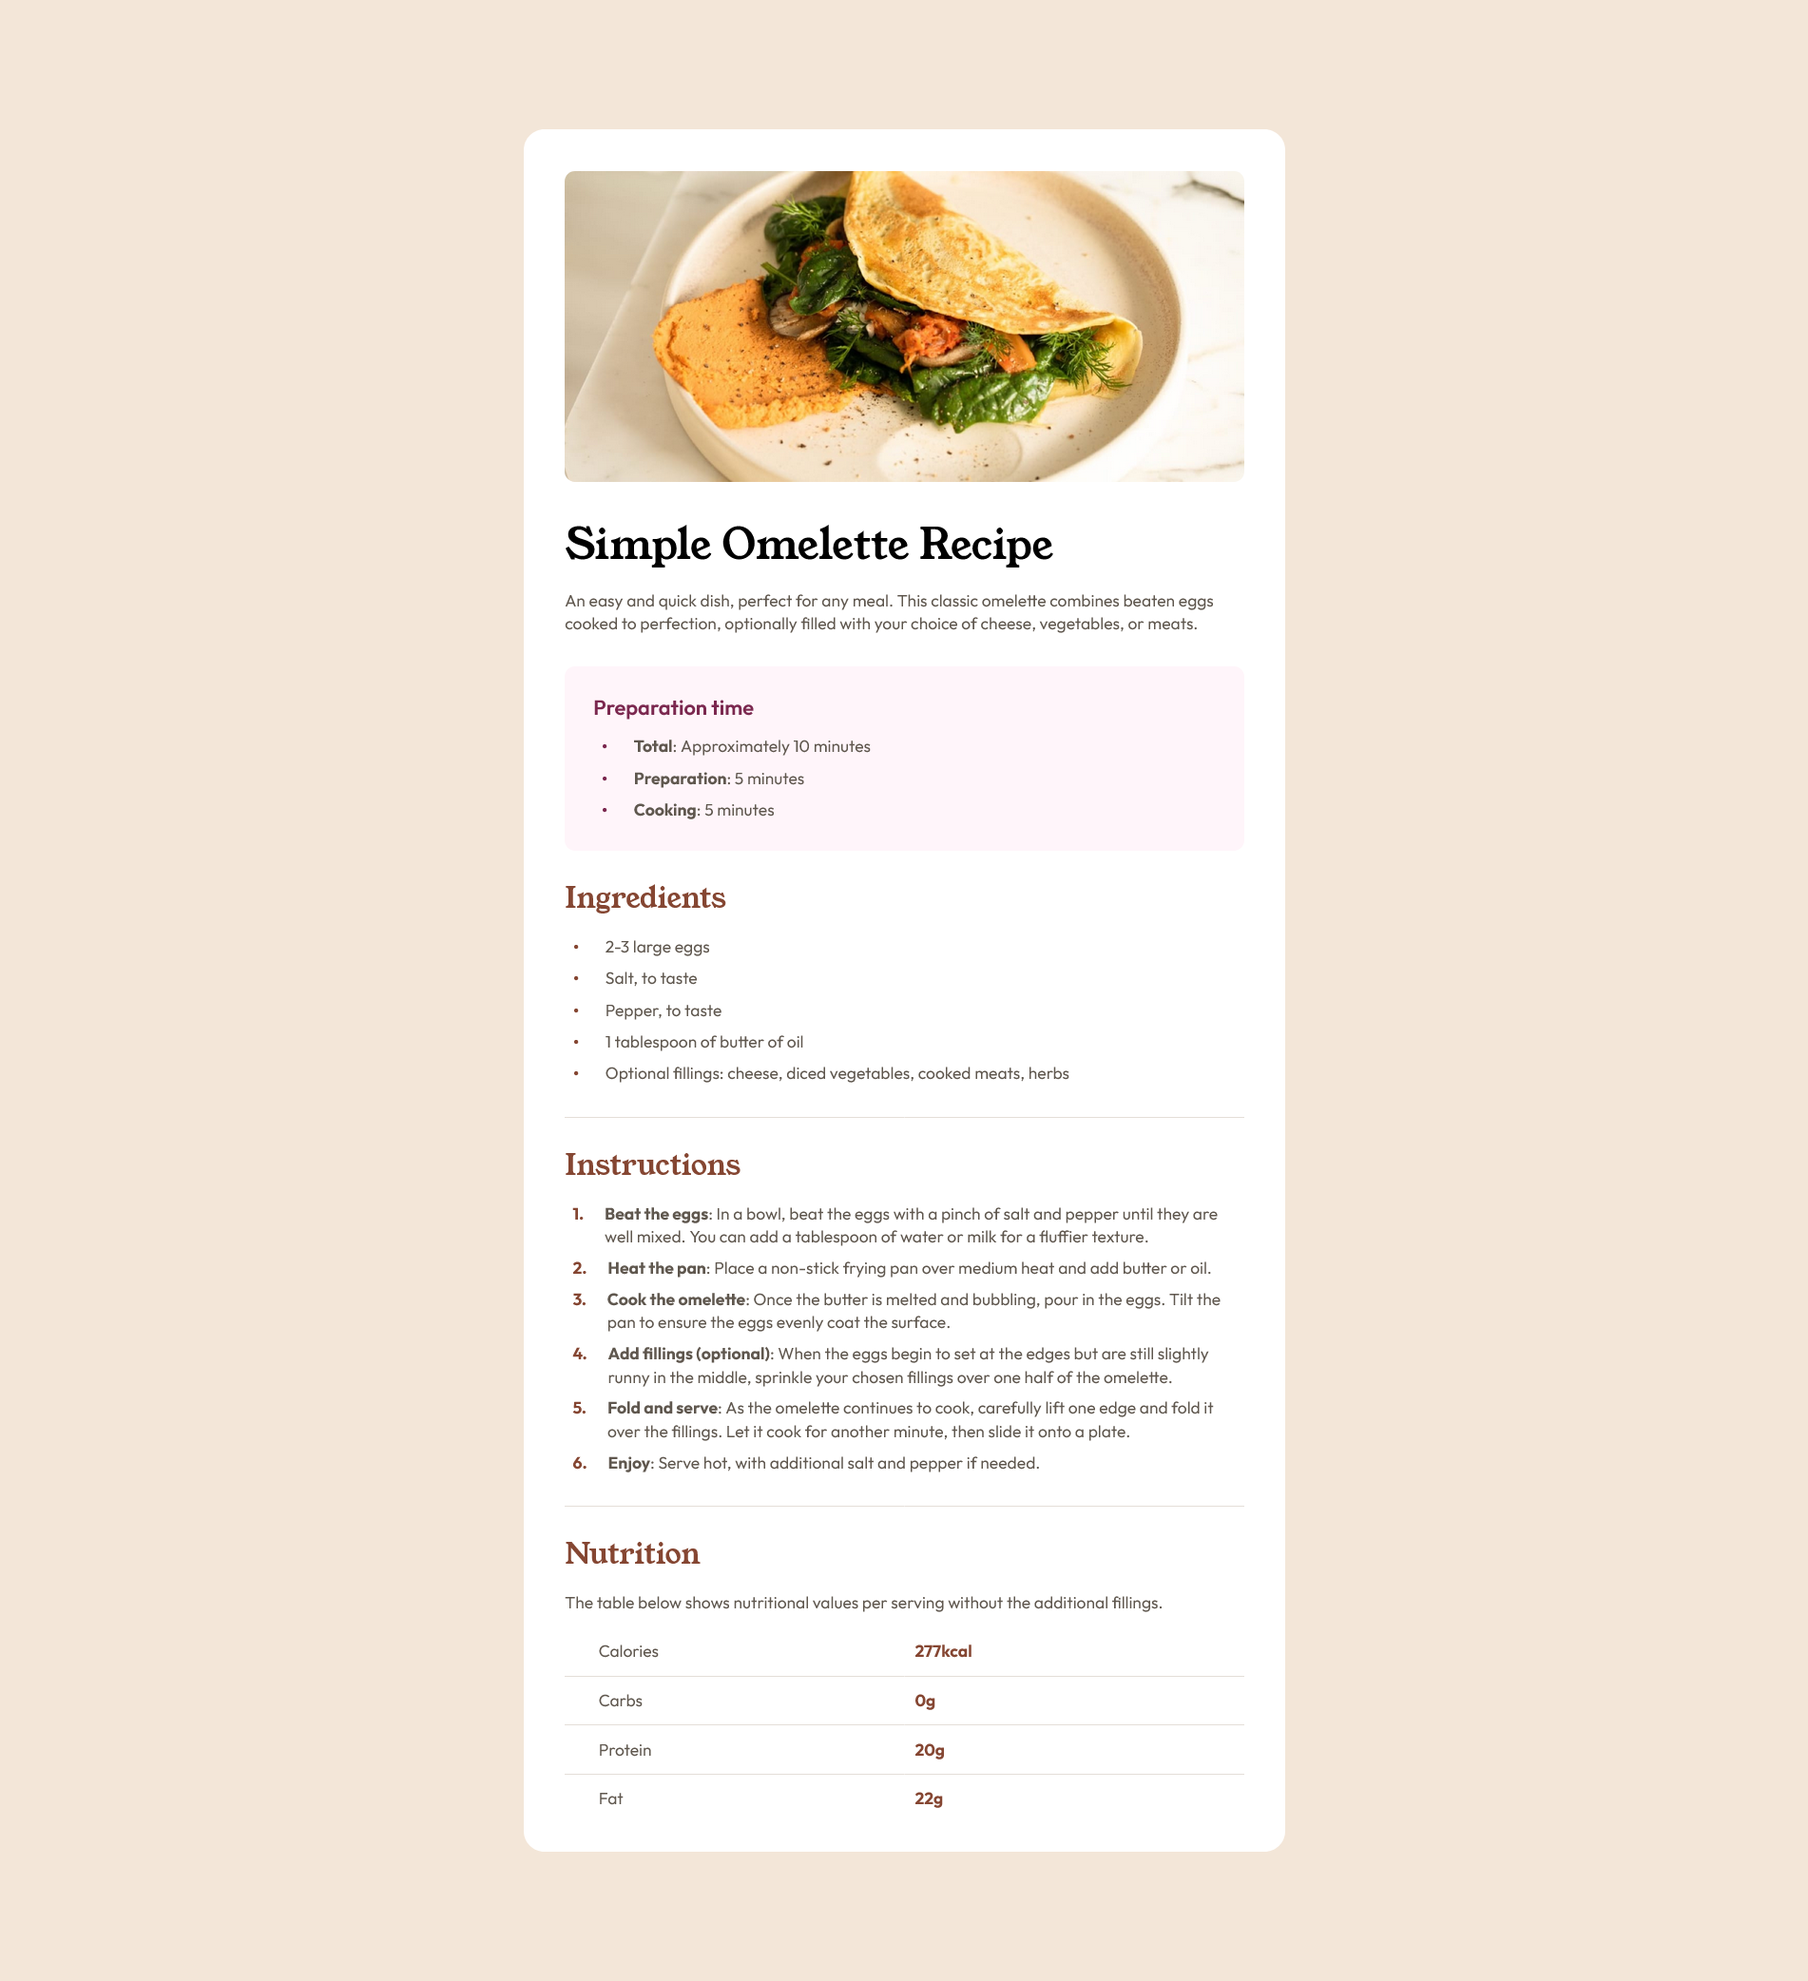
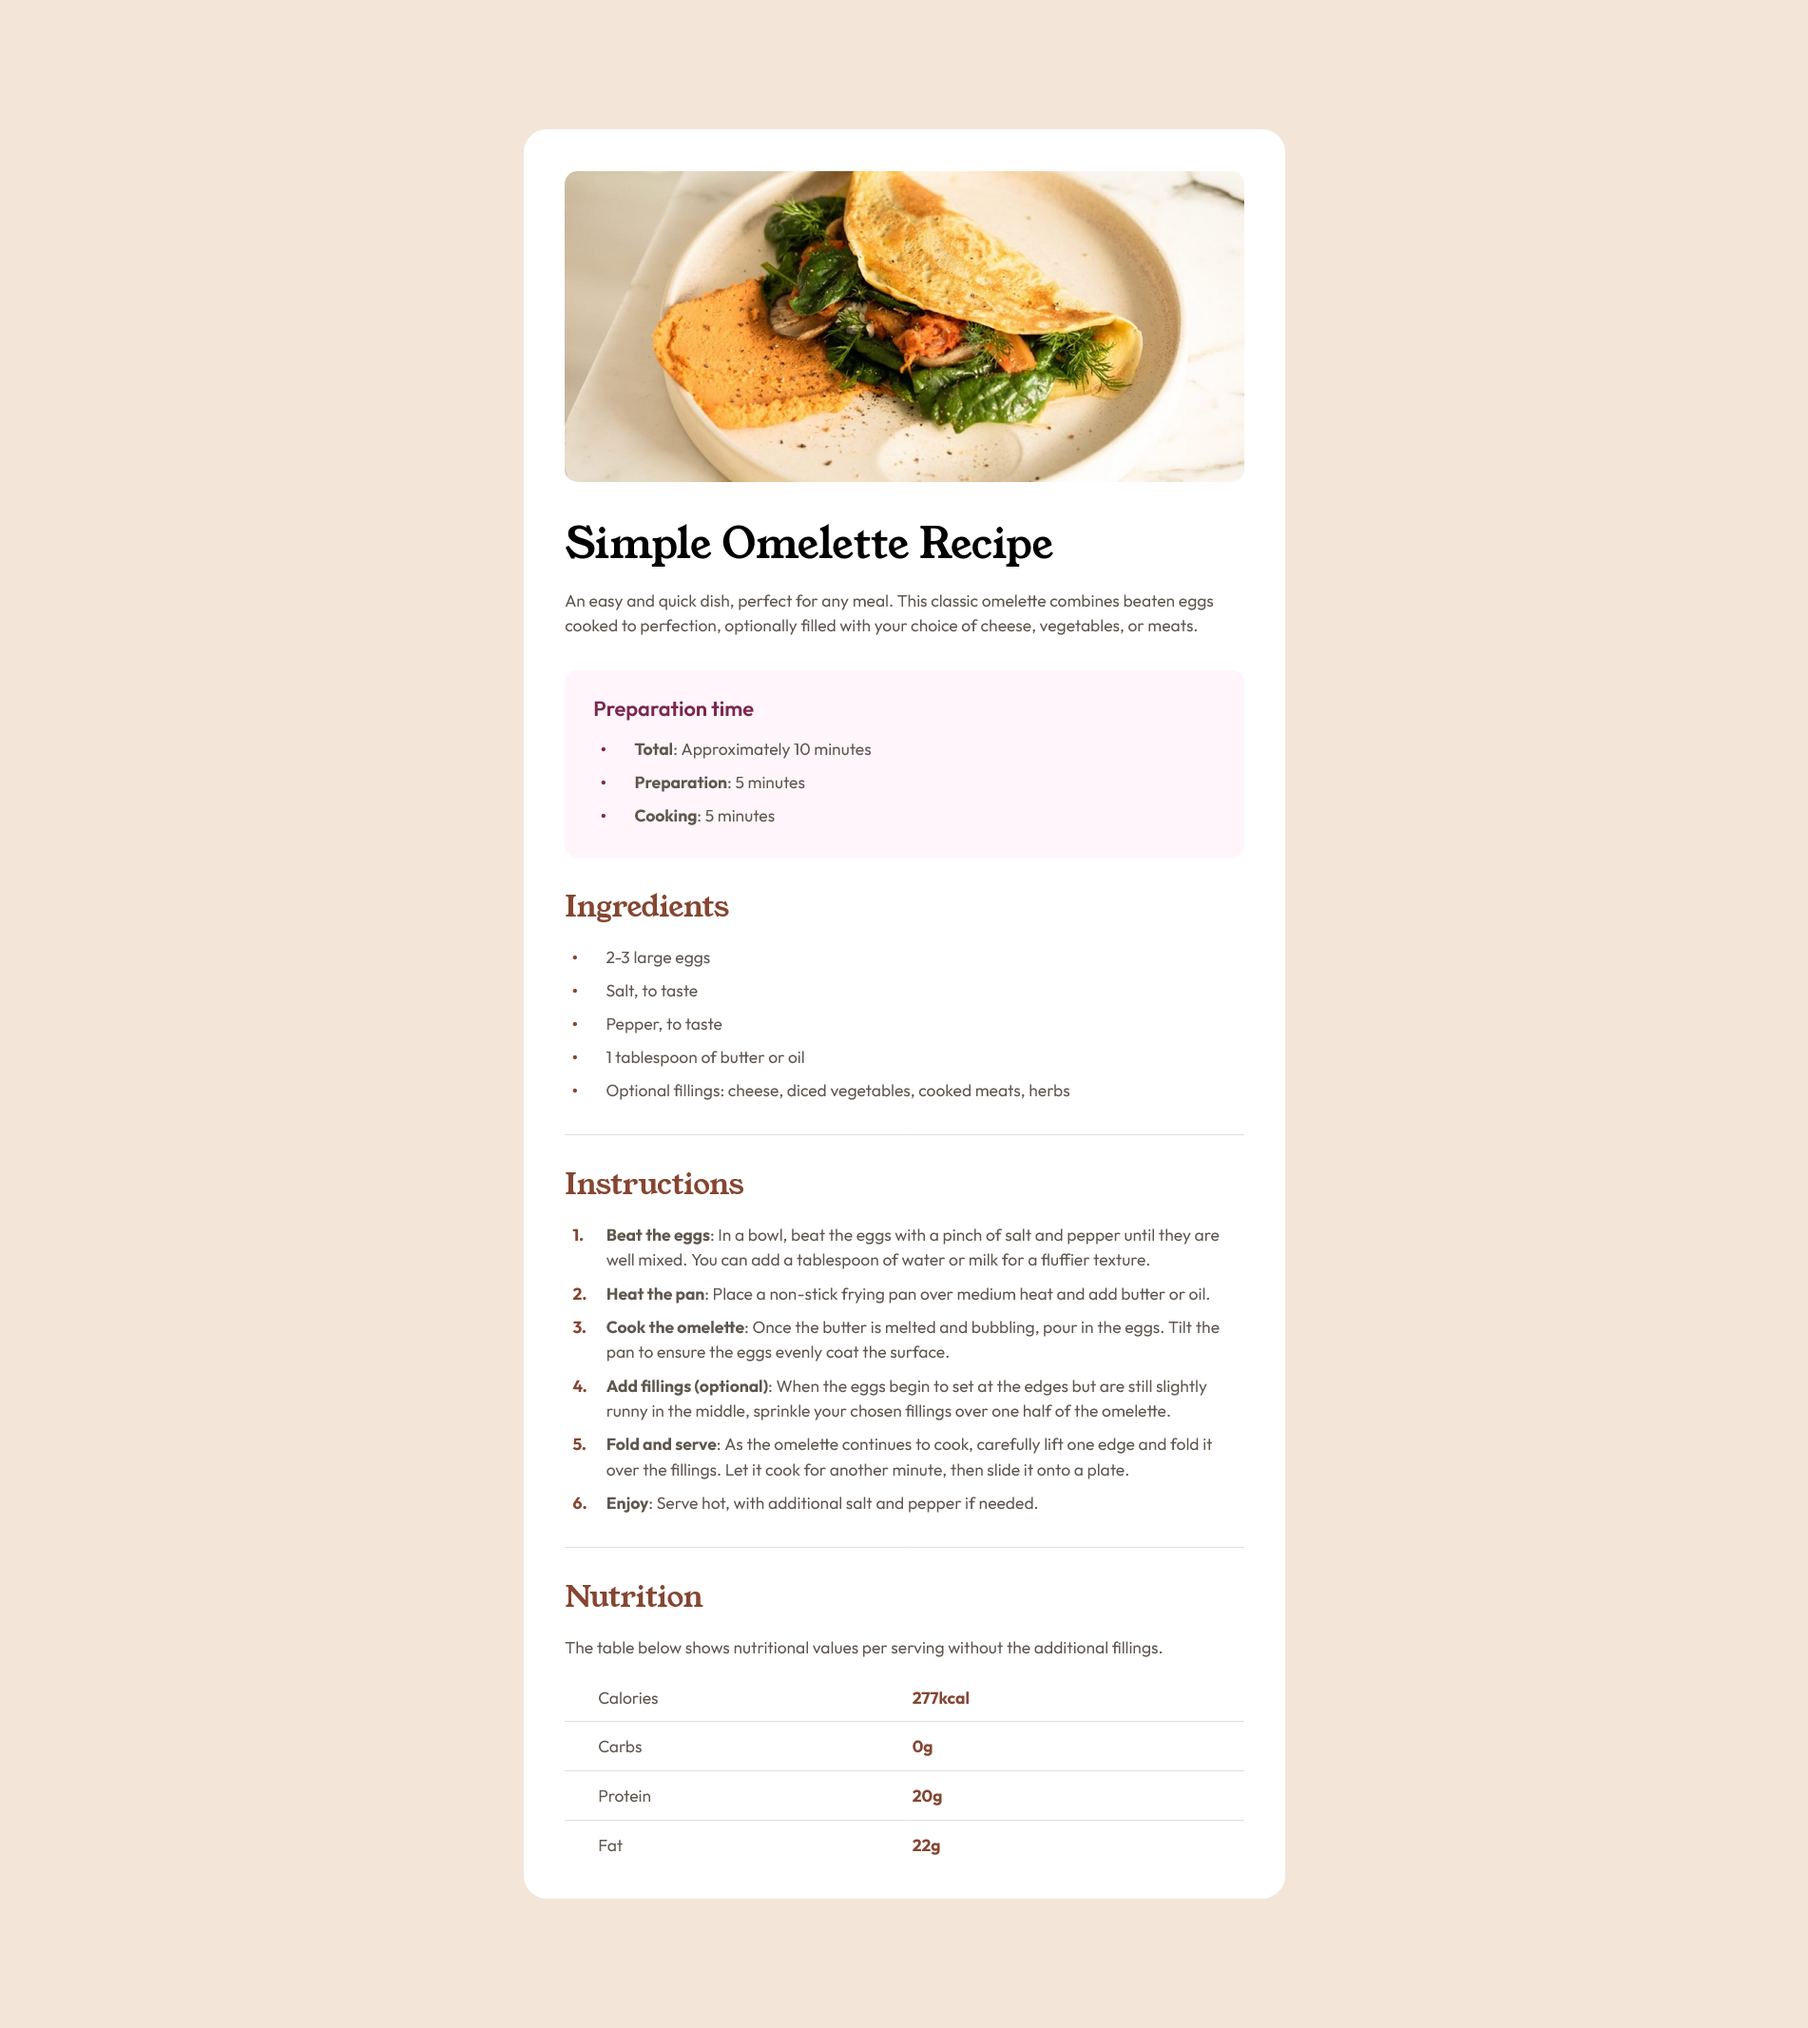
Update

diff --git a/Solution04/src/style.scss b/Solution04/src/style.scss
@@ -30,27 +30,21 @@ body {
             font-weight: 400;
             font-size: 3.65rem;
             line-height: 1;
-            margin-top: 0;
         }
 
         h2 {
             font-family: "YoungSerif", sans-serif;
             font-weight: 400;
-            font-size: 2.75rem;
+            font-size: 2.8rem;
             color: hsl(14, 45%, 36%);
-            margin-bottom: 2rem;
-        }
-
-        h3 {
-            font-size: 2rem;
-            font-weight: 600;
+            margin-block: 0.1rem 2.15rem;
         }
 
         p {
             display: inline;
             color: hsl(30, 10%, 34%);
             font-weight: 400;
-            line-height: 2.25rem;
+            line-height: 2.35rem;
         }
 
         span {
@@ -58,7 +52,7 @@ body {
         }
 
         li {
-            margin-bottom: 0.75rem;
+            margin-bottom: 0.85rem;
 
             &:last-of-type {
                 margin-bottom: 0;
@@ -66,7 +60,7 @@ body {
         }
 
         ul {
-            padding-left: 0.75rem;
+            padding-left: 0.65rem;
 
             li {
                 display: flex;
@@ -75,7 +69,7 @@ body {
                 &:before {
                     content: "•";
                     font-size: 15pt;
-                    margin-right: 2.5rem;
+                    margin-right: 2.65rem;
                     color: hsl(14, 45%, 36%);
                 }
             }
@@ -89,13 +83,19 @@ body {
             li {
                 display: flex;
                 align-items: first baseline;
+                justify-content: space-between;
                 counter-increment: ordered-list-item;
 
                 &:before {
                     content: counter(ordered-list-item) ".";
                     font-weight: 700;
-                    margin-right: 2rem;
+                    width: fit-content;
                     color: hsl(14, 45%, 36%);
+                }
+
+                p {
+                    width: 95%;
+                    line-height: 1.5;
                 }
             }
         }
@@ -106,13 +106,17 @@ body {
         }
 
         .highlighted-section {
-            padding: 2.75rem;
+            margin-top: 0.1rem;
+            padding: 2.45rem 2.75rem 2.85rem;
             background-color: hsl(330, 100%, 98%);
-            border-radius: 1rem;
+            border-radius: 1.25rem;
 
             > :first-child {
                 color: hsl(332, 51%, 32%) !important;
-                margin-bottom: 1.5rem;
+                margin-bottom: 1.65rem;
+                font-family: "Outfit";
+                font-size: 2rem;
+                font-weight: 600;
             }
 
             li::before {
@@ -134,18 +138,18 @@ body {
             > div {
                 display: flex;
                 align-items: center;
-                padding-block: 1.2rem;
+                padding-block: 1.2rem 1.1rem;
 
                 > * {
                     width: 50%;
                 }
 
                 > :first-child {
-                    padding-left: 3.25rem;
+                    padding-left: 3.2rem;
                 }
 
                 > :last-child {
-                    padding-left: 1rem;
+                    padding-left: 0.75rem;
                 }
             }
 
@@ -172,12 +176,11 @@ body {
         .recipe {
             max-width: 735px;
             padding: 4rem;
-            border-radius: 2rem;
+            border-radius: 2.25rem;
             background-color: #fff;
 
             .recipe-image {
-                margin-bottom: 3.75rem;
-                border-radius: 1rem;
+                border-radius: 1.25rem;
                 overflow: hidden;
             }
 
@@ -189,7 +192,6 @@ body {
 
     h1 {
         font-size: 4rem !important;
-        margin-bottom: 2rem !important;
-        line-height: 1.15 !important;
+        margin-block: 4rem 2.35rem;
     }
 }

diff --git a/Solution04/src/style.css b/Solution04/src/style.css
@@ -260,36 +260,31 @@ body main h1 {
   font-weight: 400;
   font-size: 3.65rem;
   line-height: 1;
-  margin-top: 0;
 }
 body main h2 {
   font-family: "YoungSerif", sans-serif;
   font-weight: 400;
-  font-size: 2.75rem;
+  font-size: 2.8rem;
   color: hsl(14, 45%, 36%);
-  margin-bottom: 2rem;
-}
-body main h3 {
-  font-size: 2rem;
-  font-weight: 600;
+  margin-block: 0.1rem 2.15rem;
 }
 body main p {
   display: inline;
   color: hsl(30, 10%, 34%);
   font-weight: 400;
-  line-height: 2.25rem;
+  line-height: 2.35rem;
 }
 body main span {
   font-weight: 700;
 }
 body main li {
-  margin-bottom: 0.75rem;
+  margin-bottom: 0.85rem;
 }
 body main li:last-of-type {
   margin-bottom: 0;
 }
 body main ul {
-  padding-left: 0.75rem;
+  padding-left: 0.65rem;
 }
 body main ul li {
   display: flex;
@@ -298,7 +293,7 @@ body main ul li {
 body main ul li:before {
   content: "•";
   font-size: 15pt;
-  margin-right: 2.5rem;
+  margin-right: 2.65rem;
   color: hsl(14, 45%, 36%);
 }
 body main ol {
@@ -309,26 +304,36 @@ body main ol {
 body main ol li {
   display: flex;
   align-items: first baseline;
+  justify-content: space-between;
   counter-increment: ordered-list-item;
 }
 body main ol li:before {
   content: counter(ordered-list-item) ".";
   font-weight: 700;
-  margin-right: 2rem;
+  width: -moz-fit-content;
+  width: fit-content;
   color: hsl(14, 45%, 36%);
+}
+body main ol li p {
+  width: 95%;
+  line-height: 1.5;
 }
 body main hr {
   border: none;
   border-top: 1px solid hsl(30, 18%, 87%);
 }
 body main .highlighted-section {
-  padding: 2.75rem;
+  margin-top: 0.1rem;
+  padding: 2.45rem 2.75rem 2.85rem;
   background-color: hsl(330, 100%, 98%);
-  border-radius: 1rem;
+  border-radius: 1.25rem;
 }
 body main .highlighted-section > :first-child {
   color: hsl(332, 51%, 32%) !important;
-  margin-bottom: 1.5rem;
+  margin-bottom: 1.65rem;
+  font-family: "Outfit";
+  font-size: 2rem;
+  font-weight: 600;
 }
 body main .highlighted-section li::before {
   color: hsl(332, 51%, 32%);
@@ -345,16 +350,16 @@ body main .table:last-child {
 body main .table > div {
   display: flex;
   align-items: center;
-  padding-block: 1.2rem;
+  padding-block: 1.2rem 1.1rem;
 }
 body main .table > div > * {
   width: 50%;
 }
 body main .table > div > :first-child {
-  padding-left: 3.25rem;
+  padding-left: 3.2rem;
 }
 body main .table > div > :last-child {
-  padding-left: 1rem;
+  padding-left: 0.75rem;
 }
 body main .table > div:not(:last-child) {
   border-bottom: 1px solid hsl(30, 18%, 87%);
@@ -374,12 +379,11 @@ body main div:last-child > div.table > div:last-child {
   main .recipe {
     max-width: 735px;
     padding: 4rem;
-    border-radius: 2rem;
+    border-radius: 2.25rem;
     background-color: #fff;
   }
   main .recipe .recipe-image {
-    margin-bottom: 3.75rem;
-    border-radius: 1rem;
+    border-radius: 1.25rem;
     overflow: hidden;
   }
   main .recipe .recipe-info {
@@ -387,7 +391,6 @@ body main div:last-child > div.table > div:last-child {
   }
   h1 {
     font-size: 4rem !important;
-    margin-bottom: 2rem !important;
-    line-height: 1.15 !important;
+    margin-block: 4rem 2.35rem;
   }
 }/*# sourceMappingURL=style.css.map */

diff --git a/Solution04/src/index.html b/Solution04/src/index.html
@@ -6,12 +6,8 @@
         <meta http-equiv="X-UA-Compatible" content="IE=edge" />
         <meta name="viewport" content="width=device-width, initial-scale=1.0" />
 
-        <!-- <meta name="keywords" content="" />
-        <meta name="description" content="" />
-        <meta name="author" content="" /> -->
-
-        <title>Recipe Page</title>
         <link rel="icon" type="image/x-icon" href="assets/images/favicon-32x32.png" />
+        <title>Recipe Page</title>
 
         <link rel="stylesheet" href="style.css" />
     </head>
@@ -33,7 +29,7 @@
                     </div>
 
                     <div class="recipe-preparation highlighted-section">
-                        <h3>Preparation time</h3>
+                        <h2>Preparation time</h2>
 
                         <ul>
                             <li>
@@ -54,7 +50,7 @@
                             <li><p>2-3 large eggs</p></li>
                             <li><p>Salt, to taste</p></li>
                             <li><p>Pepper, to taste</p></li>
-                            <li><p>1 tablespoon of butter of oil</p></li>
+                            <li><p>1 tablespoon of butter or oil</p></li>
                             <li><p>Optional fillings: cheese, diced vegetables, cooked meats, herbs</p></li>
                         </ul>
                     </div>
@@ -66,8 +62,7 @@
                         <ol>
                             <li>
                                 <p>
-                                    <span>Beat the eggs</span>: In a bowl, beat the eggs with a pinch of salt and pepper until they are well mixed.
-                                    You can add a tablespoon of water or milk for a fluffier texture.
+                                    <span>Beat the eggs</span>: In a bowl, beat the eggs with a pinch of salt and pepper until they are well mixed. You can add a tablespoon of water or milk for a fluffier texture.
                                 </p>
                             </li>
                             <li>
@@ -87,7 +82,7 @@
                             </li>
                             <li>
                                 <p>
-                                    <span>Fold and serve</span>: As the omelette contin ues to cook, carefully lift one edge and fold it over the
+                                    <span>Fold and serve</span>: As the omelette continues to cook, carefully lift one edge and fold it over the
                                     fillings. Let it cook for another minute, then slide it onto a plate.
                                 </p>
                             </li>

diff --git a/Solution04/README.md b/Solution04/README.md
@@ -1,38 +1,15 @@
-# Frontend Mentor - Recipe page solution
+# Frontend Mentor - "Recipe Page" solution
 
-This is a solution to the [Recipe page challenge on Frontend Mentor](https://www.frontendmentor.io/challenges/recipe-page-KiTsR8QQKm). Frontend Mentor challenges help you improve your coding skills by building realistic projects.
+This is a solution to the ["Recipe Page" challenge on Frontend Mentor](https://www.frontendmentor.io/challenges/recipe-page-KiTsR8QQKm). 
 
-## Table of contents
+## Links
 
--   [Overview](#overview)
-    -   [The challenge](#the-challenge)
-    -   [Screenshot](#screenshot)
-    -   [Links](#links)
--   [My process](#my-process)
-    -   [Built with](#built-with)
-    -   [What I learned](#what-i-learned)
-
-**Note: Delete this note and update the table of contents based on what sections you keep.**
-
-## Overview
+-   Solution URL: [https://www.frontendmentor.io/solutions/recipe-page-html-scss-v5P20SdLiz](https://www.frontendmentor.io/solutions/recipe-page-html-scss-v5P20SdLiz)
+-   Live Site URL: [https://redened.github.io/Frontend.Mentor/Solution04/src/](https://redened.github.io/Frontend.Mentor/Solution04/src/)
 
 ### Screenshot
 
-![](Desktop.png)
-
-### Links
-
--   Solution URL: [https://www.frontendmentor.io/solutions/recipe-page-html-scss-v5P20SdLiz](https://www.frontendmentor.io/solutions/recipe-page-html-scss-v5P20SdLiz)
--   Live Site URL: [https://redened.github.io/Frontendmentor-Project04/src/](https://redened.github.io/Frontendmentor-Project04/src/)
-
-## My process
-
-### Built with
-
--   Semantic HTML5 markup
--   SCSS
--   Flexbox
--   Mobile-first workflow
+![](../Screenshots/Solution04.png)
 
 ### What I learned
 
